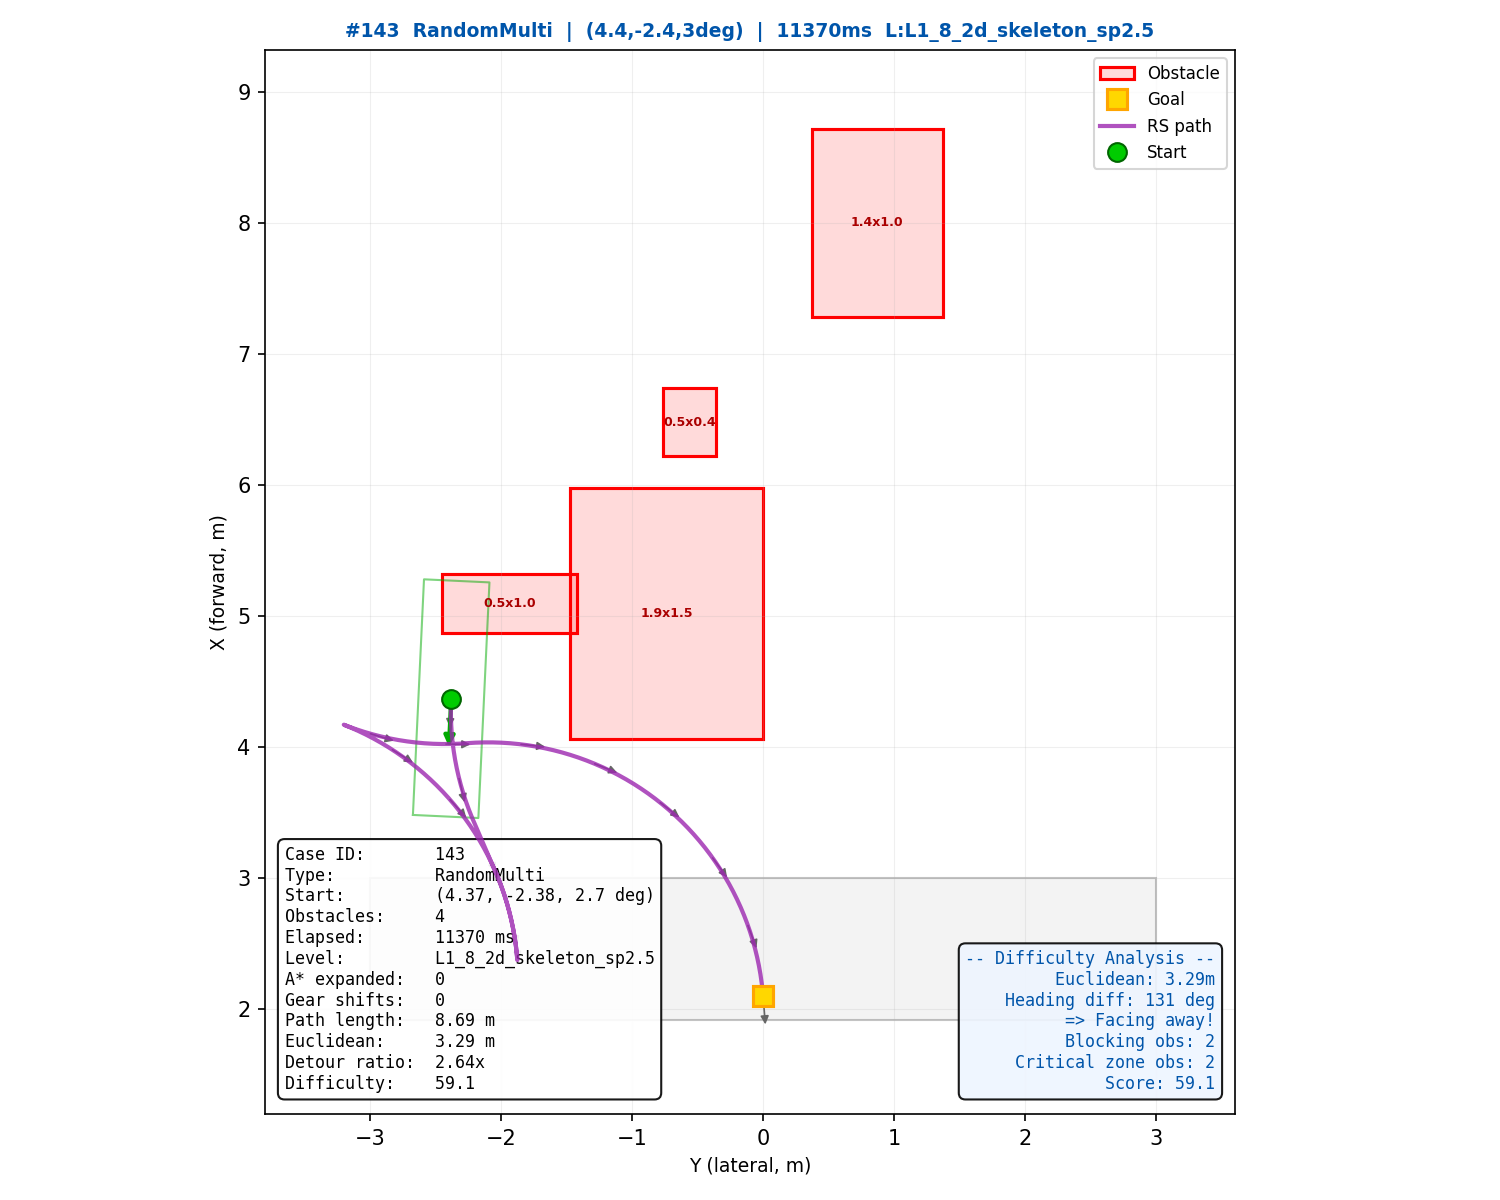
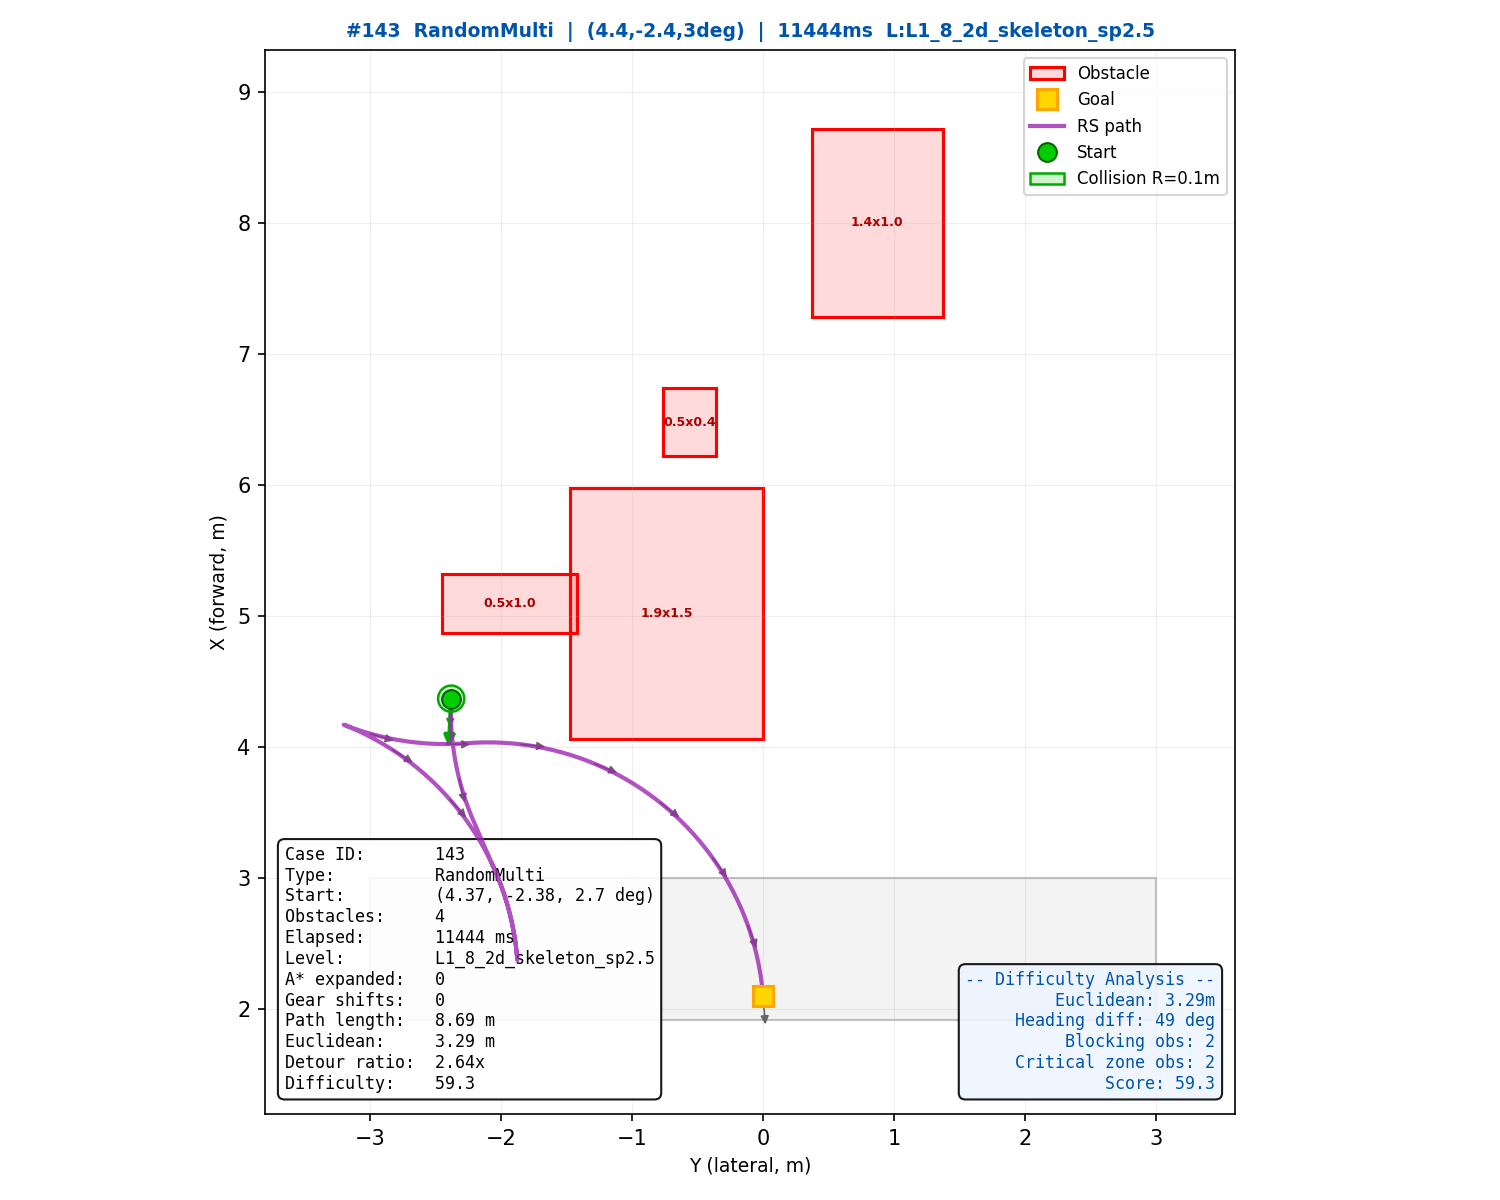
fix: replace forklift body outline with 0.1m collision circle & correct heading_diff calculation
- viz_stress_hard_cases.py: replace 1.8x0.5m green rectangle with 0.1m radius circle (matches VEHICLE_RADIUS in collision.py)
- viz_stress_hard_cases.py: fix heading_diff to use effective_th = sth + pi (forklift coordinate system: th=0 faces -x)
- viz_stress_timeouts.py: same collision circle replacement
- viz_stress_timeouts.py: same heading_diff correction
- Regenerated all hard case and timeout visualization images

diff --git a/scripts/viz_stress_timeouts.py b/scripts/viz_stress_timeouts.py
@@ -72,7 +72,7 @@ def _draw_scene(ax, case, show_title=True, compact=False):
 
     # ── 起点 + 朝向箭头 ──
     arrow_len = 0.4 if not compact else 0.3
-    # 叉车前方 = -x 方向
+    # 叉车前方 = (-cos(θ), -sin(θ))，即 θ=0 时朝 -x (正对托盘)
     dx_arrow = -arrow_len * math.cos(sth)
     dy_arrow = -arrow_len * math.sin(sth)
     ax.annotate("", xy=(sy + dy_arrow, sx + dx_arrow), xytext=(sy, sx),
@@ -81,21 +81,13 @@ def _draw_scene(ax, case, show_title=True, compact=False):
             markeredgecolor="#006600", markeredgewidth=1.0, zorder=10,
             label=f"Start" if not compact else None)
 
-    # ── 叉车粗略轮廓 (参考用, 简化为矩形) ──
-    # 叉车大致尺寸: 长~2.0m, 宽~0.6m, 中心在起点
-    veh_l, veh_w = 1.8, 0.5
-    corners_local = np.array([
-        [-veh_l / 2, -veh_w / 2],
-        [-veh_l / 2,  veh_w / 2],
-        [ veh_l / 2,  veh_w / 2],
-        [ veh_l / 2, -veh_w / 2],
-        [-veh_l / 2, -veh_w / 2],
-    ])
-    cos_th, sin_th = math.cos(sth), math.sin(sth)
-    R = np.array([[cos_th, -sin_th], [sin_th, cos_th]])
-    corners_world = (R @ corners_local.T).T + np.array([sx, sy])
-    ax.plot(corners_world[:, 1], corners_world[:, 0], "-", color="#00aa00",
-            linewidth=1.0, alpha=0.5)
+    # ── 碰撞半径圆 (与 collision.py VEHICLE_RADIUS=0.1 一致) ──
+    collision_circle = mpatches.Circle(
+        (sy, sx), 0.1,
+        linewidth=1.2, edgecolor="#00aa00", facecolor="#00cc0030",
+        zorder=9, label="Collision R=0.1m" if not compact else None,
+    )
+    ax.add_patch(collision_circle)
 
     # ── 从起点到目标的直线 (辅助线) ──
     ax.plot([sy, RS_GOAL_Y], [sx, RS_GOAL_X], "--", color="#aaaaaa",
@@ -255,10 +247,10 @@ def _analyze_blocking(sx, sy, sth, obstacles):
     if critical_obs:
         lines.append(f"Critical zone (x 2.5~5): obs {critical_obs}")
 
-    # 起始朝向分析
-    th_deg = math.degrees(sth)
+    # 起始朝向分析 (注意: 本系统中 th=0 表示车头朝 -x, 前进方向 = θ+π)
+    forward_deg = math.degrees(sth) + 180
     heading_to_goal = math.degrees(math.atan2(gy - sy, gx - sx))
-    heading_diff = abs(((th_deg - heading_to_goal + 180) % 360) - 180)
+    heading_diff = abs(((forward_deg - heading_to_goal + 180) % 360) - 180)
     lines.append(f"Heading to goal: {heading_to_goal:.0f} deg")
     lines.append(f"Heading diff: {heading_diff:.0f} deg")
     if heading_diff > 90:

diff --git a/scripts/viz_stress_hard_cases.py b/scripts/viz_stress_hard_cases.py
@@ -291,17 +291,13 @@ def _draw_hard_case(ax, case_info, traj_data, show_title=True, compact=False):
             markeredgecolor="#006600", markeredgewidth=1.0, zorder=10,
             label="Start" if not compact else None)
 
-    # ── 叉车轮廓 ──
-    veh_l, veh_w = 1.8, 0.5
-    corners = np.array([
-        [-veh_l / 2, -veh_w / 2], [-veh_l / 2, veh_w / 2],
-        [veh_l / 2, veh_w / 2], [veh_l / 2, -veh_w / 2],
-        [-veh_l / 2, -veh_w / 2],
-    ])
-    R = np.array([[math.cos(sth), -math.sin(sth)],
-                  [math.sin(sth),  math.cos(sth)]])
-    cw = (R @ corners.T).T + np.array([sx, sy])
-    ax.plot(cw[:, 1], cw[:, 0], "-", color="#00aa00", lw=1.0, alpha=0.5)
+    # ── 碰撞半径圆 (与 collision.py VEHICLE_RADIUS=0.1 一致) ──
+    collision_circle = mpatches.Circle(
+        (sy, sx), 0.1,
+        linewidth=1.2, edgecolor="#00aa00", facecolor="#00cc0030",
+        zorder=9, label="Collision R=0.1m" if not compact else None,
+    )
+    ax.add_patch(collision_circle)
 
     # ── 范围 ──
     all_xs = [sx, RS_GOAL_X, WALL_X_MIN, WALL_X_MAX]
@@ -344,10 +340,10 @@ def _analyze_difficulty(case):
     euclidean = math.hypot(sx - RS_GOAL_X, sy - RS_GOAL_Y)
     lines.append(f"Euclidean: {euclidean:.2f}m")
 
-    # 朝向
+    # 朝向 (注意: 本系统中 th=0 表示车头朝 -x, 前进方向 = θ+π)
     heading_goal = math.degrees(math.atan2(RS_GOAL_Y - sy, RS_GOAL_X - sx))
-    th_deg = math.degrees(sth)
-    h_diff = abs(((th_deg - heading_goal + 180) % 360) - 180)
+    forward_deg = math.degrees(sth) + 180  # 前进方向 = θ + π
+    h_diff = abs(((forward_deg - heading_goal + 180) % 360) - 180)
     lines.append(f"Heading diff: {h_diff:.0f} deg")
     if h_diff > 120:
         lines.append("=> Facing away!")
